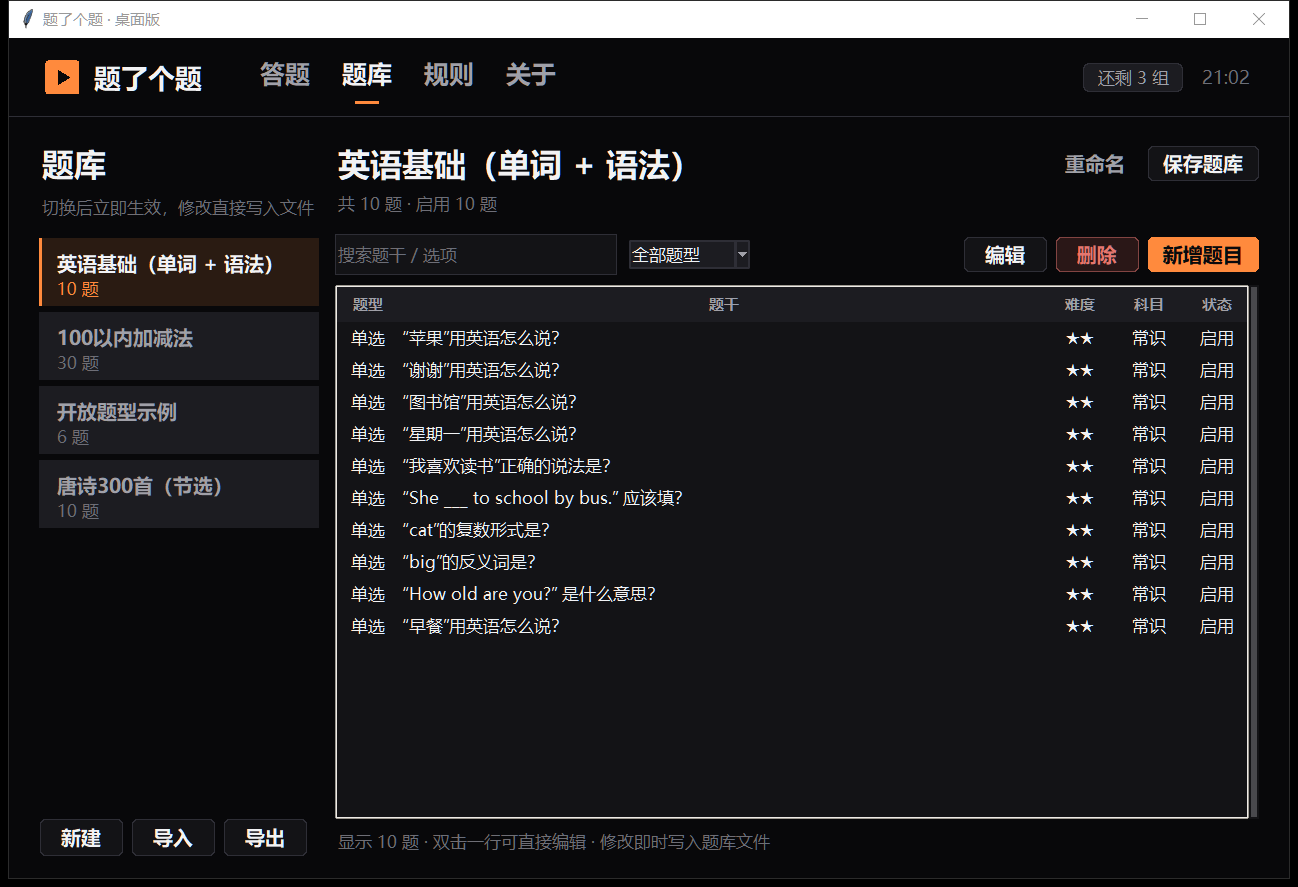
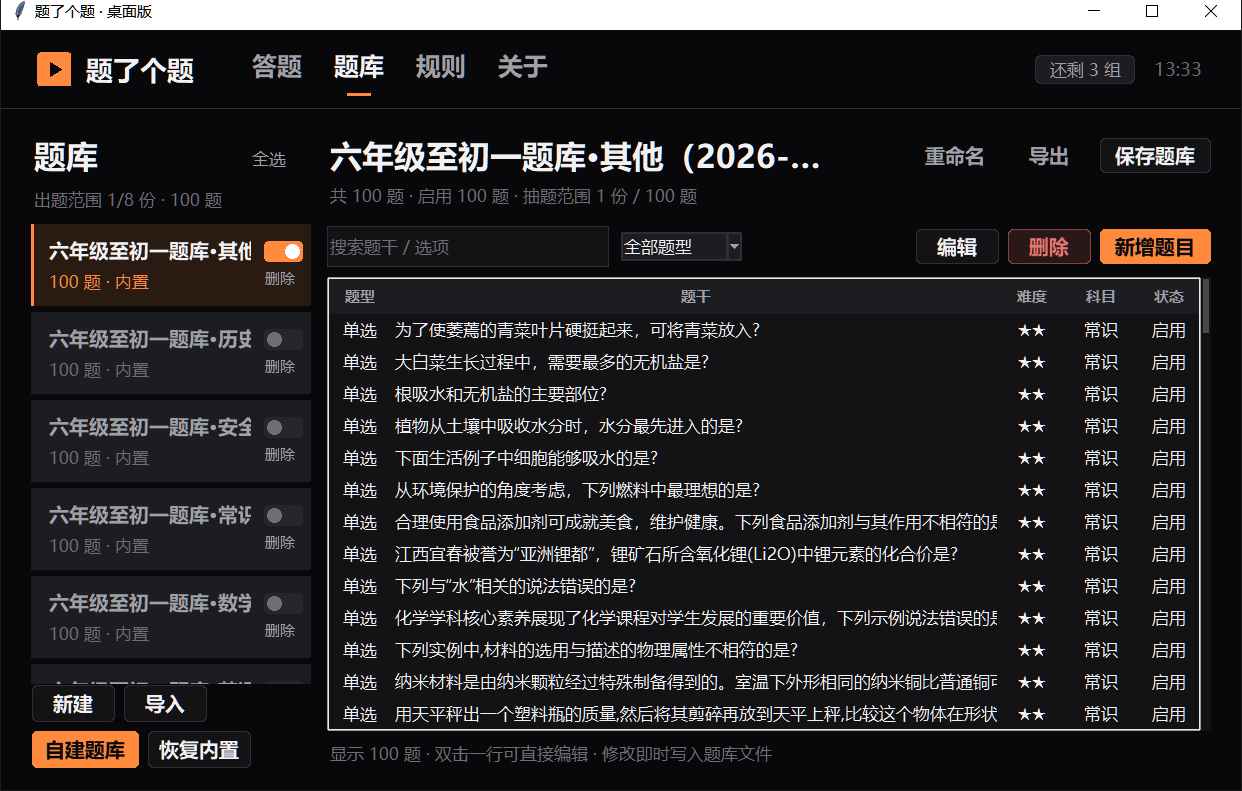
更新题库页截图，补 AI 自建题库对话框截图与截图工具

diff --git a/tools/shot_prompt.py b/tools/shot_prompt.py
@@ -1,0 +1,53 @@
+"""截「自建题库」对话框（只截对话框本身，不带桌面）。
+
+用法： python tools\\shot_prompt.py [输出路径]
+"""
+
+import ctypes
+import struct
+import sys
+import time
+from pathlib import Path
+
+ROOT = Path(__file__).resolve().parents[1]
+sys.path.insert(0, str(ROOT))
+
+try:
+    ctypes.windll.shcore.SetProcessDpiAwareness(2)
+except Exception:
+    pass
+
+from PIL import ImageGrab  # noqa: E402
+
+from quizwin.ui.app import App  # noqa: E402
+from quizwin.ui.bank_prompt import BankPromptDialog  # noqa: E402
+
+user32 = ctypes.windll.user32
+out = Path(sys.argv[1]) if len(sys.argv) > 1 else ROOT / "shots" / "16-AI自建题库.png"
+
+app = App(lock_mode=False)
+app.geometry("1240x760+40+20")
+app.attributes("-topmost", True)
+
+
+def shoot() -> None:
+    app.set_page("bank")
+    dialog = BankPromptDialog(app.pages["bank"], app)
+    dialog.attributes("-topmost", True)
+    dialog.update()
+    time.sleep(0.8)
+    dialog.update()
+
+    hwnd = user32.GetParent(dialog.winfo_id()) or dialog.winfo_id()
+    raw = ctypes.create_string_buffer(16)
+    user32.GetWindowRect(hwnd, raw)
+    left, top, right, bottom = struct.unpack("4i", raw.raw)
+    print("dialog rect", left, top, right, bottom, right - left, bottom - top)
+    ImageGrab.grab(bbox=(left, top, right, bottom), all_screens=True).save(out)
+    print("saved", out)
+    dialog.destroy()
+    app.destroy()
+
+
+app.after(700, shoot)
+app.mainloop()

diff --git a/README.md b/README.md
@@ -75,9 +75,13 @@ python run.py
 
 题库、规则、关于三页：
 
-| 题库管理 | 题目编辑 |
+| 题库管理（开关 = 参与出题） | 题目编辑 |
 | --- | --- |
 | ![题库管理](shots/08-题库管理.png) | ![题目编辑](shots/09-题目编辑.png) |
+
+「自建题库」给的提示词，复制给任意大模型就能按本程序格式产题：
+
+![用 AI 自建题库](shots/16-AI自建题库.png)
 
 | 规则设置 | 关于页面 |
 | --- | --- |
@@ -423,6 +427,7 @@ python tests\bank_ui_smoke.py         :: 题库页界面：勾选出题范围、
 - `window_shot.py`：按窗口标题抓截图，用于验证打包后的 exe（没有 tkinter 句柄可用）
 - `press_enter.py`：给安装向导发回车翻页，配合 `window_shot.py` 逐页核对
 - `keypad.py`：给前台窗口打字/按键/点击，用来打通「首次设置」这种只能靠人手点一次的流程
+- `shot_prompt.py`：只截「自建题库」对话框本身，重生成 `shots/16-AI自建题库.png`
 - `uninstall_silent.py`：静默卸载已安装的程序（绕开 Git Bash 的 `/S` 转换）
 - `make_shots.py`：批量生成 `shots/` 里的展示图
 - `make_launcher.py`：重新生成 GBK 编码的启动脚本
